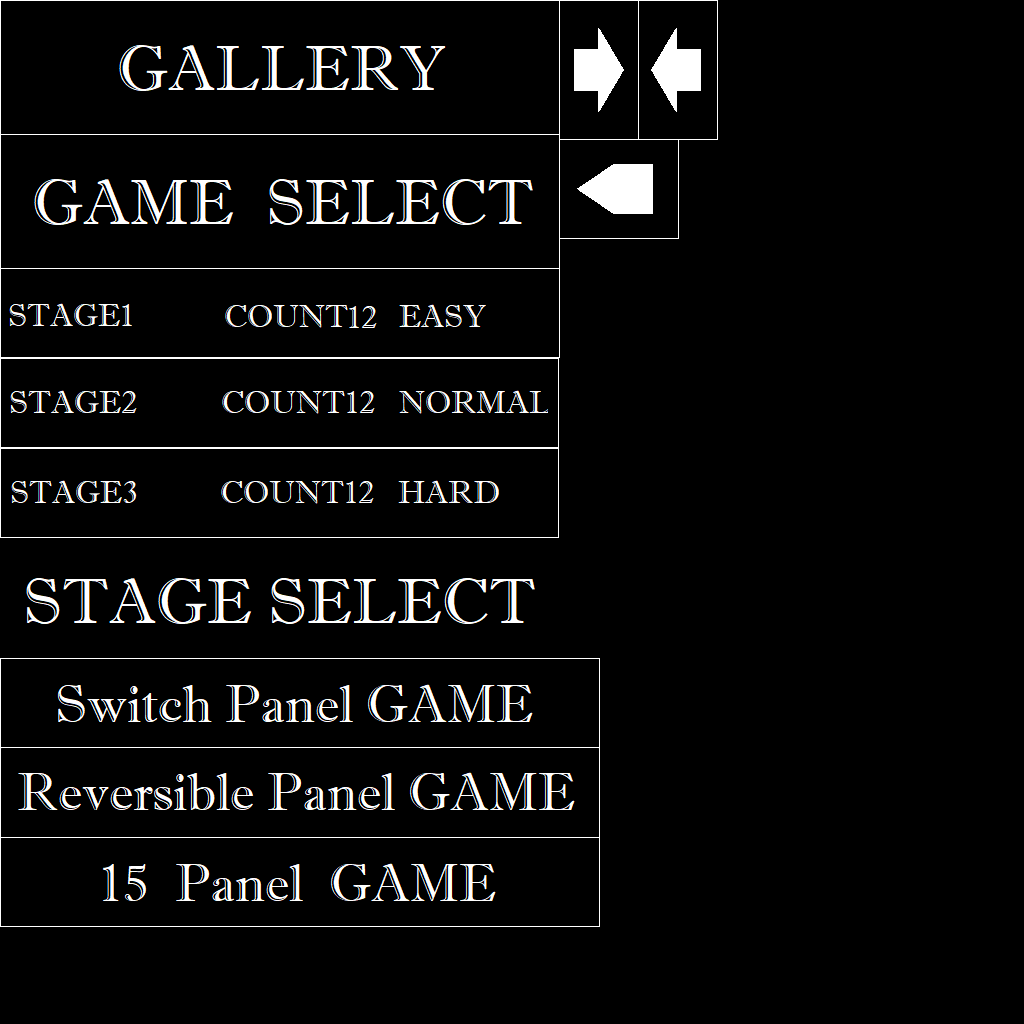
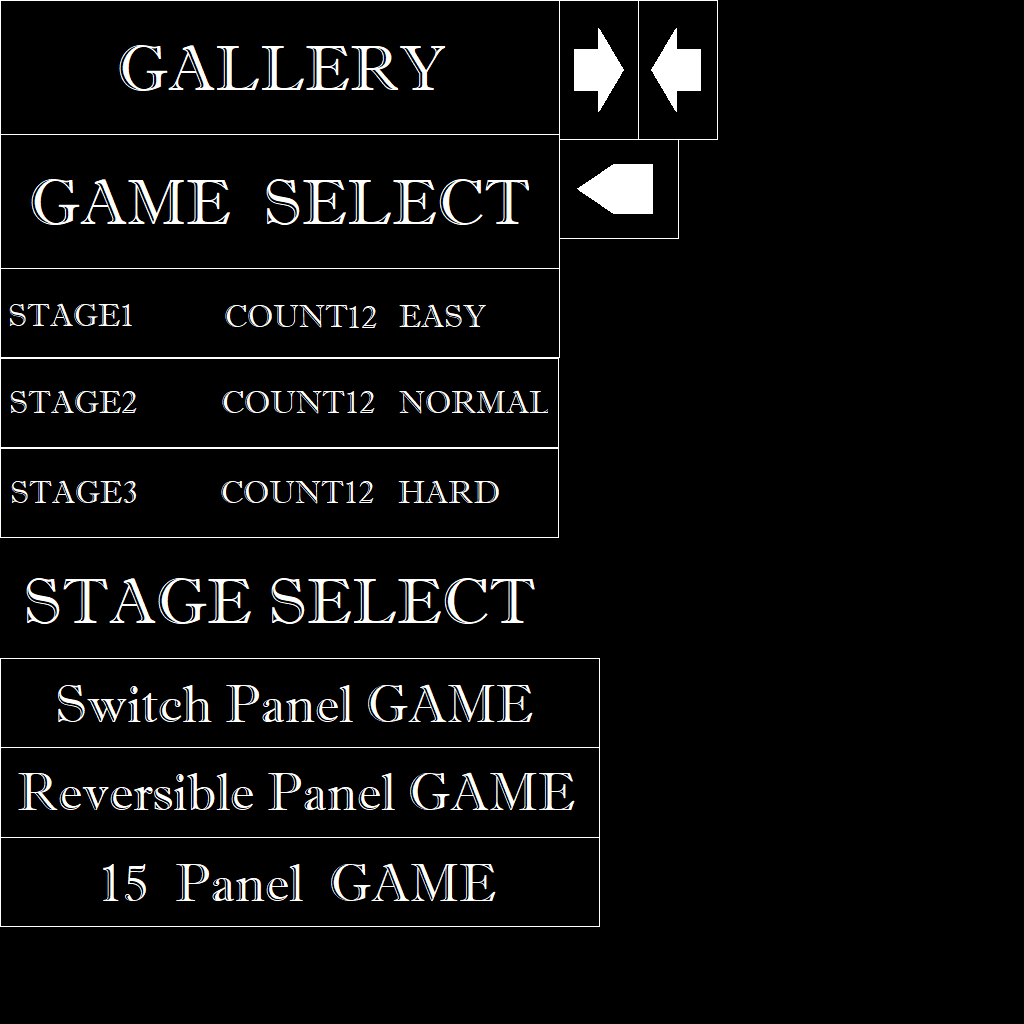
フルスクにした時のGameSelectの白枠が出現するやつ修正しました。

Changed region(s): [[0.25, 0.1562, 0.5312, 0.2188], [0.0312, 0.1562, 0.2188, 0.2188]]

diff --git a/Project1/Project1/ObjGameSelect.h b/Project1/Project1/ObjGameSelect.h
@@ -10,7 +10,7 @@ using namespace GameL;
 
 #define RESOURCE_SCENE_TEXT_T (135.0f)
 #define RESOURCE_SCENE_TEXT_L (1.0f)
-#define RESOURCE_SCENE_TEXT_R (560.0f)
+#define RESOURCE_SCENE_TEXT_R (558.0f)
 #define RESOURCE_SCENE_TEXT_B (265.0f)
 #define RESOURCE_SELECT_L (0.0f)
 #define RESOURCE_SELECT_R (600.0f)
